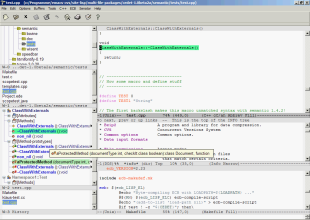
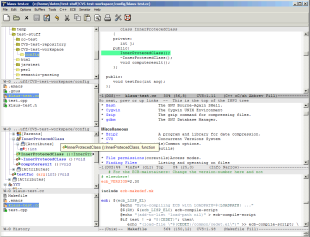
Changes for the ECB website

diff --git a/html/screenshots/index.html b/html/screenshots/index.html
@@ -23,8 +23,8 @@ A:link, A:visited, A:active { text-decoration: none }
                 </a>
                     
                 <p>
-                ECB 2.23 running in Emacs 21 showing three source-windows, one with a complex C++ source file;
-                the ECB-tree-windows use image-icons and a different Helvetica-font.
+                ECB 2.30 running in Emacs 21 showing three source-windows, one with a complex C++ source file;
+                the ECB-tree-windows use image-icons (also for displaying the VC-state-images).
                 </p>
                     
             </td>
